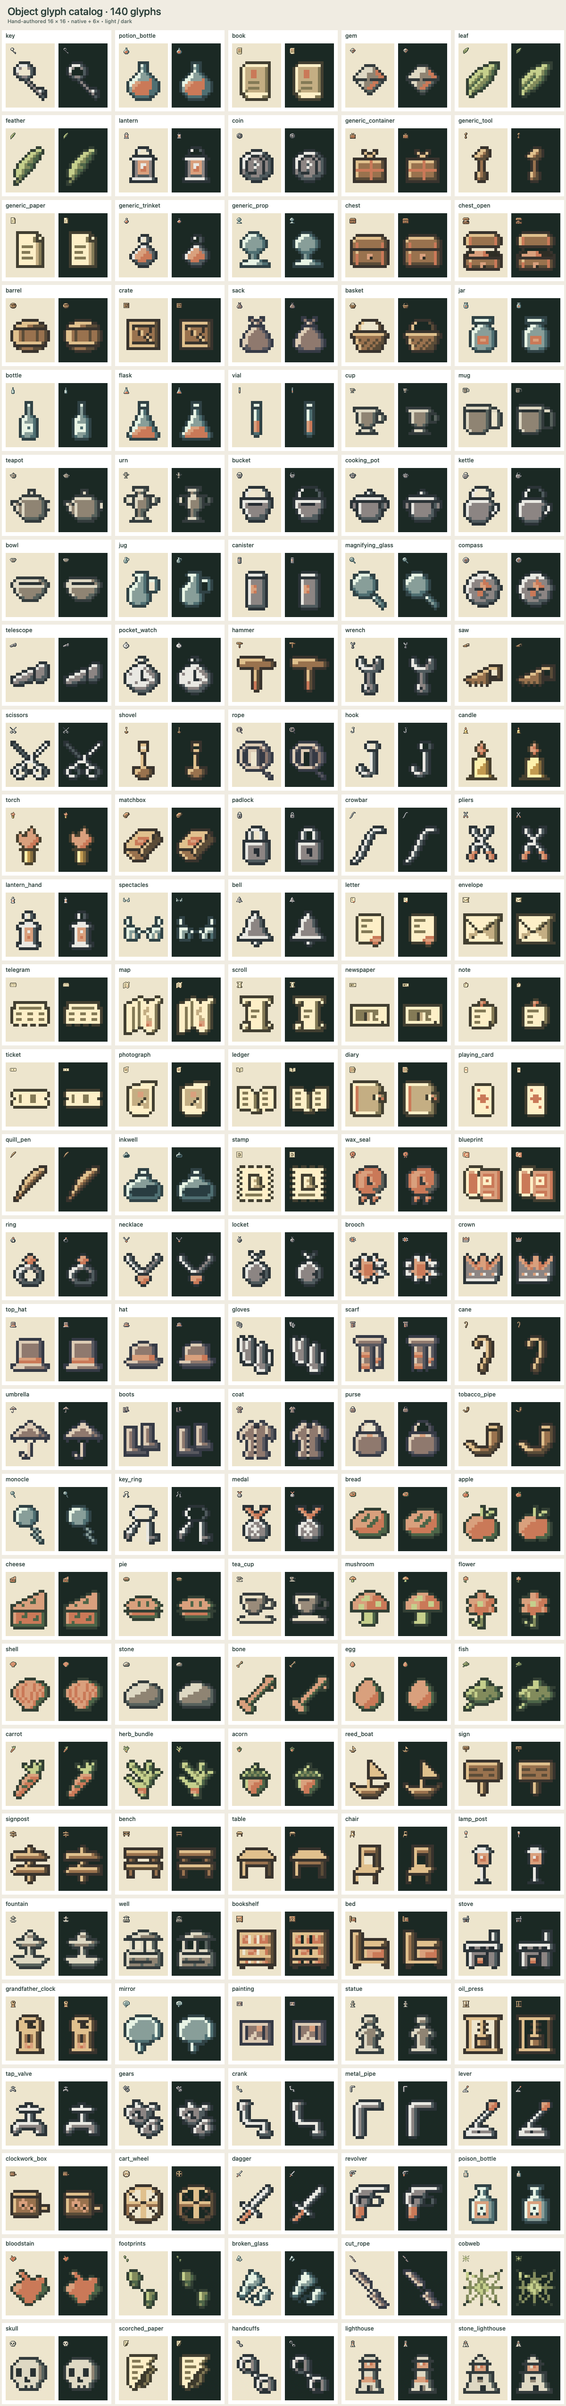
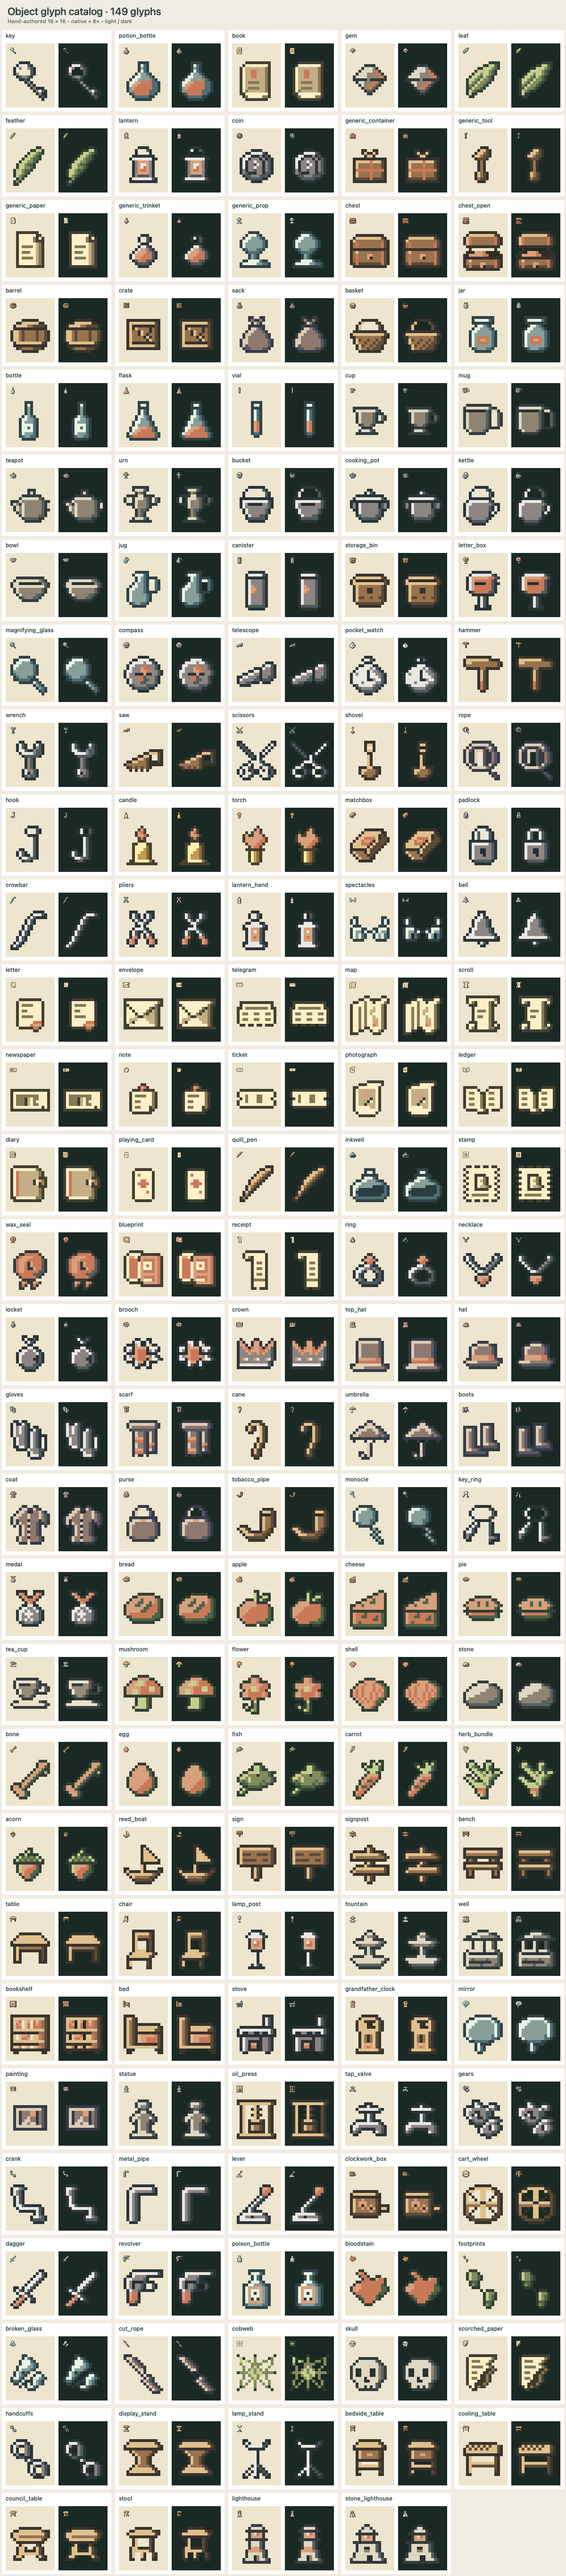
please create new glyphs for storage_bin, letter_box, display_stand, lamp_stand, bedside_table, cooling_table, council_table, stool, receipt

diff --git a/src/art/glyphs/furnitureAndClues.ts b/src/art/glyphs/furnitureAndClues.ts
@@ -886,4 +886,160 @@ export const FURNITURE_AND_CLUES_GLYPHS: readonly GlyphDefinition[] = [
       "................",
     ],
   },
+  {
+    id: "display_stand",
+    name: "Display stand",
+    category: "furniture",
+    material: "wood",
+    tags: ["display", "stand", "pedestal", "exhibit", "plinth", "platform", "showcase"],
+    size: "1x1",
+    rows: [
+      "................",
+      "...oooooooooo...",
+      "..ohhhhhhhhhso..",
+      ".ohhhhhhhhhhhso.",
+      ".oooooooooooooo.",
+      "...ohbbbbbbso...",
+      "....ohbbbbso....",
+      ".....ohbbso.....",
+      ".....ohbbso.....",
+      ".....ohbbso.....",
+      "....ohbbbbso....",
+      "...ohhhhhhhso...",
+      "..ohhhhhhhhhso..",
+      "..oooooooooooo..",
+      "................",
+      "................",
+    ],
+  },
+  {
+    id: "lamp_stand",
+    name: "Lamp stand",
+    category: "furniture",
+    material: "metal",
+    tags: ["lamp", "stand", "holder", "empty", "tripod", "base", "support"],
+    size: "1x1",
+    rows: [
+      "................",
+      "...oo......oo...",
+      "...oho....oso...",
+      "....ohhhhhso....",
+      ".....oooooo.....",
+      ".......ho.......",
+      ".......ho.......",
+      ".......ho.......",
+      ".......ho.......",
+      ".......ho.......",
+      "......ohso......",
+      ".....ohhoso.....",
+      "....ohohooso....",
+      "...oho.ho.oso...",
+      "...oo..oo..oo...",
+      "................",
+    ],
+  },
+  {
+    id: "bedside_table",
+    name: "Bedside table",
+    category: "furniture",
+    material: "wood",
+    tags: ["bedside", "table", "nightstand", "drawer", "bedroom", "cabinet", "furniture"],
+    size: "1x1",
+    rows: [
+      "................",
+      "....oooooooo....",
+      "...ohhhhhhhso...",
+      "..ohhhhhhhhhso..",
+      "..oooooooooooo..",
+      "...ohbbbbbbso...",
+      "...ohbbggbbso...",
+      "...ohbbbbbbso...",
+      "...oooooooooo...",
+      "...oh......so...",
+      "...ohhhhhhhso...",
+      "...oooooooooo...",
+      "...oh......so...",
+      "...oo......oo...",
+      "................",
+      "................",
+    ],
+  },
+  {
+    id: "cooling_table",
+    name: "Cooling table",
+    category: "furniture",
+    material: "wood",
+    tags: ["cooling", "table", "rack", "tray", "bakery", "baking", "kitchen"],
+    size: "1x1",
+    rows: [
+      "................",
+      "................",
+      "...oooooooooo...",
+      "..ohshshshshhso.",
+      ".ohshshshshhhso.",
+      ".ohhhhhhhhhhhso.",
+      ".oooooooooooooo.",
+      "..oh........so..",
+      "..oh........so..",
+      "..ohhhhhhhhhso..",
+      "..ohssssssssso..",
+      "..oh........so..",
+      "..oh........so..",
+      "..oo........oo..",
+      "................",
+      "................",
+    ],
+  },
+  {
+    id: "council_table",
+    name: "Council table",
+    category: "furniture",
+    material: "wood",
+    tags: ["council", "table", "meeting", "conference", "oval", "long", "chamber"],
+    size: "1x1",
+    rows: [
+      "................",
+      "................",
+      "....oooooooo....",
+      "..oohhhhhhhhsoo.",
+      ".ohhhhhhhhhhhso.",
+      ".ohhbbbbbbbbbso.",
+      "..ohhhhhhhhhso..",
+      "...oooooooooo...",
+      "....oh....so....",
+      "...ohho..ohso...",
+      "...ohhoooohso...",
+      "...ohhhhhhhso...",
+      "..ohho....ohso..",
+      "..ooo......ooo..",
+      "................",
+      "................",
+    ],
+  },
+  {
+    id: "stool",
+    name: "Stool",
+    category: "furniture",
+    material: "wood",
+    tags: ["stool", "seat", "round", "backless", "seating", "wooden", "furniture"],
+    size: "1x1",
+    rows: [
+      "................",
+      "................",
+      ".....oooooo.....",
+      "...oohhhhhhsoo..",
+      "..ohhhhhhhhhso..",
+      "...oooooooooo...",
+      "....oh....so....",
+      "....oh....so....",
+      "....oh....so....",
+      "...ohhooooso....",
+      "...ohhhhhhso....",
+      "...oh..ho..so...",
+      "...oh..ho..so...",
+      "...oo..oo..oo...",
+      "................",
+      "................",
+    ],
+  },
 ];

diff --git a/src/art/glyphs/legacyAndContainers.ts b/src/art/glyphs/legacyAndContainers.ts
@@ -860,4 +860,56 @@ export const LEGACY_AND_CONTAINER_GLYPHS: readonly GlyphDefinition[] = [
       "................",
     ],
   },
+  {
+    id: "storage_bin",
+    name: "Storage bin",
+    category: "container",
+    material: "wood",
+    tags: ["storage", "bin", "wooden", "bulk", "open", "compartment", "supplies"],
+    size: "1x1",
+    rows: [
+      "................",
+      "................",
+      "...oooooooooo...",
+      "..ohhhhhhhhhso..",
+      ".ohddddddddddso.",
+      ".ohhhhhhhhhhhso.",
+      "..ohbbbbbbbbso..",
+      "..ohbbboobbbso..",
+      "..ohbbboobbbso..",
+      "..ohbbbbbbbbso..",
+      "..ohssbbsbbsso..",
+      "..ohbbbbbbbbso..",
+      "...osssssssso...",
+      "....oooooooo....",
+      "................",
+      "................",
+    ],
+  },
+  {
+    id: "letter_box",
+    name: "Letter box",
+    category: "container",
+    material: "metal",
+    tags: ["letter", "box", "mail", "postal", "mailbox", "slot", "correspondence"],
+    size: "1x1",
+    rows: [
+      "................",
+      "....ooooooo.....",
+      "...ohhhhhhhso...",
+      "..ohggggggaaso..",
+      "..ohgaaaaaaso...",
+      "..ohgddddaasoo..",
+      "..ohgaaaaaaso...",
+      "..ohgaaaaaaso...",
+      "...osaaaaasso...",
+      "....oooooooo....",
+      "......ohso......",
+      "......ohso......",
+      "......ohso......",
+      ".....oohsoo.....",
+      ".....oooooo.....",
+      "................",
+    ],
+  },
 ];

diff --git a/src/art/glyphs/toolsAndPaper.ts b/src/art/glyphs/toolsAndPaper.ts
@@ -964,4 +964,30 @@ export const TOOLS_AND_PAPER_GLYPHS: readonly GlyphDefinition[] = [
       "................",
     ],
   },
+  {
+    id: "receipt",
+    name: "Receipt",
+    category: "paper",
+    material: "paper",
+    tags: ["receipt", "bill", "invoice", "purchase", "payment", "total", "paper"],
+    size: "1x1",
+    rows: [
+      "................",
+      "....ooooooo.....",
+      "...ohhhhhhho....",
+      "...ohsohhhho....",
+      "....ooohhhho....",
+      "......ohssho....",
+      "......ohhhho....",
+      "......ohssho....",
+      "......ohhhho....",
+      "......ohssho....",
+      "......ohhhho....",
+      "......osssso....",
+      "......ohhhho....",
+      "......ohhhho....",
+      "......oo.ooo....",
+      "................",
+    ],
+  },
 ];

diff --git a/src/art/glyphs/glyphs.test.ts b/src/art/glyphs/glyphs.test.ts
@@ -96,6 +96,8 @@ describe("glyph lint", () => {
       "gears", "crank", "metal_pipe", "lever", "clockwork_box", "cart_wheel",
       "dagger", "revolver", "poison_bottle", "bloodstain", "footprints", "broken_glass", "cut_rope",
       "cobweb", "skull", "scorched_paper", "handcuffs",
+      "storage_bin", "letter_box", "display_stand", "lamp_stand", "bedside_table",
+      "cooling_table", "council_table", "stool", "receipt",
     ];
     const availableIds = new Set(GLYPH_CATALOG.map((glyph) => glyph.id));
 

diff --git a/tools/story-forge/icon-catalog.md b/tools/story-forge/icon-catalog.md
@@ -26,6 +26,8 @@ Choose a glyph by id. Do not use a wrong icon; add a `visual_requests` entry whe
 - `bowl` — Bowl · stone · bowl, ramen, dish, food, kitchen, emberbowl, washbasin
 - `jug` — Jug · glass · jug, goldfish, bag, water, festival, container
 - `canister` — Canister · metal · canister, ink, writing, bottle, container, duskink, inkshelf
+- `storage_bin` — Storage bin · wood · storage, bin, wooden, bulk, open, compartment, supplies
+- `letter_box` — Letter box · metal · letter, box, mail, postal, mailbox, slot, correspondence
 - `purse` — Purse · cloth · purse, bag, handbag, money, wallet, leather, coin
 
 ## tool
@@ -77,6 +79,7 @@ Choose a glyph by id. Do not use a wrong icon; add a `visual_requests` entry whe
 - `stamp` — Stamp · paper · stamp, postage, postal, circle, mark, paper, envelope
 - `wax_seal` — Wax seal · misc · wax, seal, stamp, crest, letter, paper, royal
 - `blueprint` — Blueprint · paper · blueprint, plan, design, schematic, star, chart, paper
+- `receipt` — Receipt · paper · receipt, bill, invoice, purchase, payment, total, paper
 
 ## valuable
 
@@ -140,6 +143,12 @@ Choose a glyph by id. Do not use a wrong icon; add a `visual_requests` entry whe
 - `mirror` — Mirror · glass · mirror, glass, reflection, looking, surface, window, windows, tall, attic, gallery, round, harbour, berths, tide, gold
 - `painting` — Painting · cloth · painting, picture, wall, art, frame, founders, banner, stars, torn, stitched
 - `statue` — Statue · stone · statue, sculpture, stone, hero, figure, monument
+- `display_stand` — Display stand · wood · display, stand, pedestal, exhibit, plinth, platform, showcase
+- `lamp_stand` — Lamp stand · metal · lamp, stand, holder, empty, tripod, base, support
+- `bedside_table` — Bedside table · wood · bedside, table, nightstand, drawer, bedroom, cabinet, furniture
+- `cooling_table` — Cooling table · wood · cooling, table, rack, tray, bakery, baking, kitchen
+- `council_table` — Council table · wood · council, table, meeting, conference, oval, long, chamber
+- `stool` — Stool · wood · stool, seat, round, backless, seating, wooden, furniture
 
 ## machine
 
@@ -155,6 +164,7 @@ Choose a glyph by id. Do not use a wrong icon; add a `visual_requests` entry whe
 - `clockwork_box` — Clockwork box · wood · clockwork, box, music, winding, mechanism, wood, toy
 - `cart_wheel` — Cart wheel · wood · cart, wheel, wagon, wood, transport, axle, tire
 - `lighthouse` — Lighthouse · stone · lighthouse, beacon, tower, light, lamp, sea, thirteenth
+- `stone_lighthouse` — Lighthouse2 · stone · lighthouse, tower, beacon, light, nautical, coast
 
 ## danger
 
